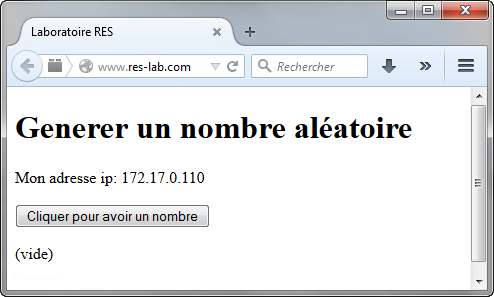
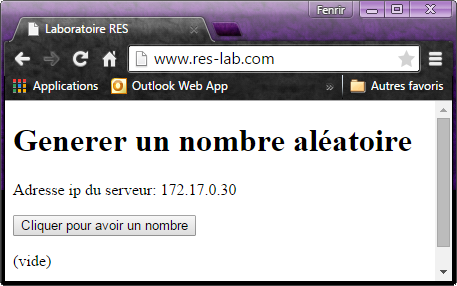
Version final du repo

diff --git a/frontend/public-html/index.php b/frontend/public-html/index.php
@@ -20,7 +20,7 @@
    <body>		
 		<h1>Generer un nombre aléatoire</h1>
 		
-      Adresse ip du serveur: <?echo $_SERVER["REMOTE_ADDR"];?>
+      Adresse ip du serveur: <?echo $_SERVER["SERVER_NAME"];?>
       
 		<p>
 			<button>Cliquer pour avoir un nombre</button>

diff --git a/Document.md b/Document.md
@@ -1,57 +1,129 @@
 # RES: Web Infrastructure Lab (Documentation)
 
 ## Description de l'application
-L'application permet simplement de genérer un nombre aléatoire. Et d'afficher l'adresse IP du serveur.
+L'application permet simplement d'afficher l'adresse IP du serveur et de genérer un nombre aléatoire avec un ID pour savoir quel serveur à envoier le nombre. Le but est de  
 
 ## Description de l'infrastructure
 ### frontend
-Pour le frontend, nous avons simplement choisi d'implémenté un fichier index.php contenant du html et une requête ajax pour le rafraichissment dynamique du numéro aléatoire.
+Le frontend est un serveur HTTP implémentent PHP. Nous avons choisi d'implémenté un fichier index.php contenant du html et une requête ajax pour le rafraichissment dynamique du numéro aléatoire.
 ### backend
-Le backend fait la generation aléatoire du nombre.
+Le backend est un serveur qui écoute sur le port 80 et envoie un nombre aléatoire et un id fixe en JSON lorsqu'un requête lui est envoier.
 ### proxy / loadbalancer
-le proxy retranscrit le chemin demandé sur l'adresse ip et le port voulu.
-le loadbalancer permet le dispachement des requetes sur plusieurs serveurs (qui à l'origine font la même chose). Cela permet d'éviter une surcharge des serveurs
+Le proxy retranscrit le chemin demandé sur l'adresse ip et le port voulu.
+Le loadbalancer permet le dispachement des requêtes sur plusieurs serveurs (qui à l'origine font la même chose). Cela permet d'éviter une surcharge des serveurs. Les frontends sont géré avec des stickysession qui permet de rediriger sur le même serveur lorsque la même personne refaît une requête au serveur load balancer.
 ### decouverte dynamique
-Permet de gerer automatiquement les serveurs disponibles (backend / frontend) le tout est gerer par des heartbeat placé dans les backend et les frontend. Il se charge de voir quand un serveur disparaît ou apparaît. Dans le serveur proxy/loadbalancer se trouve la partie qui s'occupe de récupérer les datagrammes pour refaire la configuration du serveur et le relancer.
+Permet de gerer automatiquement les serveurs disponibles (backend / frontend) le tout est gerer par des heartbeat (messages envoyé à une certaine cadence) placé dans les backend et les frontend. Il se charge de voir quand un serveur disparaît ou apparaît. Dans le serveur proxy/loadbalancer se trouve la partie qui s'occupe de récupérer les datagrammes pour refaire la configuration du serveur et le relancer.
 
 ## Matériel utilisé
 
-Pour faire notre infrastructure, nous avons utlisé un docker (http) contenant déjà apache avec un fichier de configuration bien rempli pour le reverse proxy et le load balancer. Pour le frontend, nous en utilisons un avec PHP, nous permettent ainsi d'avoir une page en PHP. Le backend, heartbeat et la découverte dynamique est fait en node.js.
-
-Pour le partage d'informations et de fichier nous avons utilié Slack.
+Pour faire notre infrastructure, nous avons utlisé un docker (http) contenant déjà apache avec un fichier de configuration bien rempli pour le reverse proxy et le load balancer. Pour le frontend, nous en utilisons un avec PHP, nous permettent ainsi d'avoir une page en PHP. Le backend, heartbeat et la découverte dynamique est fait en node.js. Pour pouvoire monitorer plusieurs node, nous avons utilisé pm2.
 
 ## Mise en place de l'infrastructure
 
 La première étape pour pouvoir tester notre infrastructure, et d'ajouter la ligne suivante dans le fichiers **hosts** de votre machine afin de pouvoir visualiser le résultat dans votre navigateur web:
 
-	192.168.42.42 www.res-lab.com 
-    #l'adresse IP correspond à celle de l'environnement vagrant
+	192.168.42.42 www.res-lab.com  #l'adresse IP correspond à celle de l'environnement vagrant
 
-Ensuite, il faut faire un **vagrant up** puis **vagrant ssh** pour pouvoir entrer dans l'environnement vagrant. 
-Pour pouvoir lancer tous les containers, il y a des scripts bash qui lancent toute l'infrastructure. 
+Ensuite, il faut faire un **vagrant up** puis **vagrant ssh** pour entrer dans l'environnement vagrant. 
+Pour lancer les containers, il y a des scripts bash qui construisant toute l'infrastructure. 
 
-Le premier à lancer est **build\_images** construisant les différents containers. Puis **run_loadbalancer** pour lancer le loadbalancer.  Ensuite, on execute **run\_loadbalancer** pour lancer le serveur proxy. Pour pouvoir lancer un frontend, il faut faire cette commande
+Le premier à executer est **build\_images.sh** construisant les différents images. Ensuite, on execute **run\_loadbalancer.sh** pour lancer le serveur proxy (nom du container: my-running-lb). Pour lancer un frontend, il faut faire la commande suivante:
 	
-	docker run -it -d my-front
+	docker run -it -d --name <nom> my-front
 Et pour lancer un backend:
 	
-	docker run -it -d my-back	
-Il y a **stop\_all_containers** qui permet d'arrêter tout les containers lancé précédement.
+	docker run -it -d --name <nom> my-back	
+Il y a **stop\_all_containers.sh** qui permet d'arrêter tout les containers lancé précédement.
 Les hearthbeats et la découverte dynamique se lance automatiquement des qu'un container est mis en marche.
+
+> si les scripts ne s'éxecutent pas, faire un chmod +x <script\>
 
 ## Test du bon fonctionnement
 
-Pour pouvoir observer si tout marche comme il faut, ouvrez une page internet avec votre 
-navigateur à l'adresse **www.res-lab.com** et vous devriez observer ceci:
+Pour pouvoir observer si tout marche comme il faut, veuillez suivre cette marche à suivre:
+
+> Toute la démarche a été fait sur la machine vagrant, sauf pour la partie visualisation sur navigateur
+
+Pour vérifier si un des serveur est bien en fonctionnel (proxy / balancer, frontend ou backend), il faut faire un telnet sur le port 80 à l'adresse du container:
+
+> Attention: utiliser localhost pour le serveur proxy / balancer car le port est rediriger sur la machine vagrant
+
+	telnet <adresse ip> 80
+
+Normalement, on vous demande de faire une requête HTTP, taper ceci:
+	
+	GET / HTTP/1.0 CRLF
+	CRLF
+Après ceci, vous devriez recevoir quelque chose
+
+- frontend : la page en php
+- backend : une valeurs aléatoire et un id en JSON
+- proxy / load balancer : la page en php d'un des frontend sinon un status 503 car il ne trouve pas d'adresse auquel vous rediriger
+
+Pour voir si les hearthbeats sont fonctionnel pour le frontend et le backend, faite un tcpdump:
+
+> Il faut d'abord lancer au moins 1 frontend et backend
+
+	sudo tcpdump -i docker0 udp -A
+Normalement, vous devriez voir ceci:
+
+[![](images_document/capture_hearthbeat.png)](images_document/capture_hearthbeat.png)
+
+On peut voir des messages comme backend et frontend, ceci indique que les bons messages sont envoyé. L'adresse multicast doit bien correspondre à 239.255.22.5 et sur le port 2222 sinon, il y a un problème. 
+
+Maintenant, pour tester le découverte dynamique, veuillez d'abord arrêter tout les frontends, si il y en a.
+Si vous faite une telnet sur le serveur load balancer et envoyez la même requête qu'avant, normalement vous aurez un status 503, car il ne connaît pas encore de frontend.
+
+[![](images_document/content_proxy_whitout_front.png)](images_document/content_proxy_whitout_front.png)
+
+Maintenant, lancez un frontend et testez avec:
+	
+	GET / HTTP/1.0 CRLF
+	CRLF
+
+Normalement, une page html vous est renvoyer maintenant.
+
+[![](images_document/content_front.png)](images_document/content_front.png)
+
+Ensuite, lancez un backend et testez avec:
+
+	GET /api/ HTTP/1.0 CRLF
+	CRLF
+
+Un nombre aléatoire et un ID est vous est envoyer en JSON. 
+
+[![](images_document/content_back.png)](images_document/content_back.png)
+
+Refaite plusieurs fois la requête pour tester que l'ID ne change pas.
+
+
+
+Pour tester plus éfficacement, lancer plusieurs frontend et backend et refaîte les requête si-dessus.
+
+Résutlat:
+
+- Pour le frontend, l'adresse IP devrait changer à chaque fois.
+- Pour le backend, l'ID envoyer devrait changer à chaque fois.
+
+Maintenant, nous allons visualiser tout ça sur votre navigateur. Pour cela, ouvrez une page internet, tapez l'URL [http://www.res-lab.com](http://www.res-lab.com) (ou [http://192.168.42.42:80](http://http://192.168.42.42:80)) est vous devriez voir ceci:
 
 [![](images_document/front_start.png)](images_document/front_start.png)
 
-Si vous appuyer sur le bouton, un nombre aléatoire devrais apparaitre à chaque nouvelle appuye.
+Si vous appuyer sur le bouton, un nombre aléatoire devrais apparaitre à chaque nouvelle appuye ,une ID différente si plusieurs backend son lancé et une adresse IP différente par moment (du au stickysession) si plusieurs frontend sont lancés.
 
-[![](images_document/front.png)](images_document/front.png)
+[![](images_document/front_after.png)](images_document/front_after.png)
 
+Pour manipuler des containers de manière visuel, on a utilisé dockerui.
+Pour le lancer, faite la commande suivante:
 
+	docker run -d -p 9000:9000 --privileged -v /var/run/docker.sock:/var/run/docker.sock dockerui/dockerui
+Et pour pouvoir l'utiliser, taper ceci dans votre navigateur:
 
+	http://192.168.42.42:9000
+
+Grâce, à cette application, on peut visualiser quel container sont actif, les arrêters de manière graphique. Ce qui peut être agréable par moment et moins rustiques que de passer par la ligne de commande.
+
+[![](images_document/dockerui.png)](images_document/dockerui.png)
 
 ##Auteurs: 
 

diff --git a/README.md b/README.md
@@ -14,15 +14,15 @@ Bryan Perroud
 ### Members contribution
 ## 
 
-**João Miguel Domingues Pedrosa** : Master Chief
+**João Miguel Domingues Pedrosa** : Master Chief, Node.js (hearthbeat and discovery), Proxy, test
 
-**Toni Dias** : 
+**Toni Dias** : Documentation and Frontend
 
-**Nicolas Kobel** : 
+**Nicolas Kobel** : Backend and Test
 
-**Marc Pellet** : 
+**Marc Pellet** : Backend and search visual interface for docker
 
-**Bryan Perroud** : 
+**Bryan Perroud** : Proxy, Load Balancer
 
 ### Objectives
 
